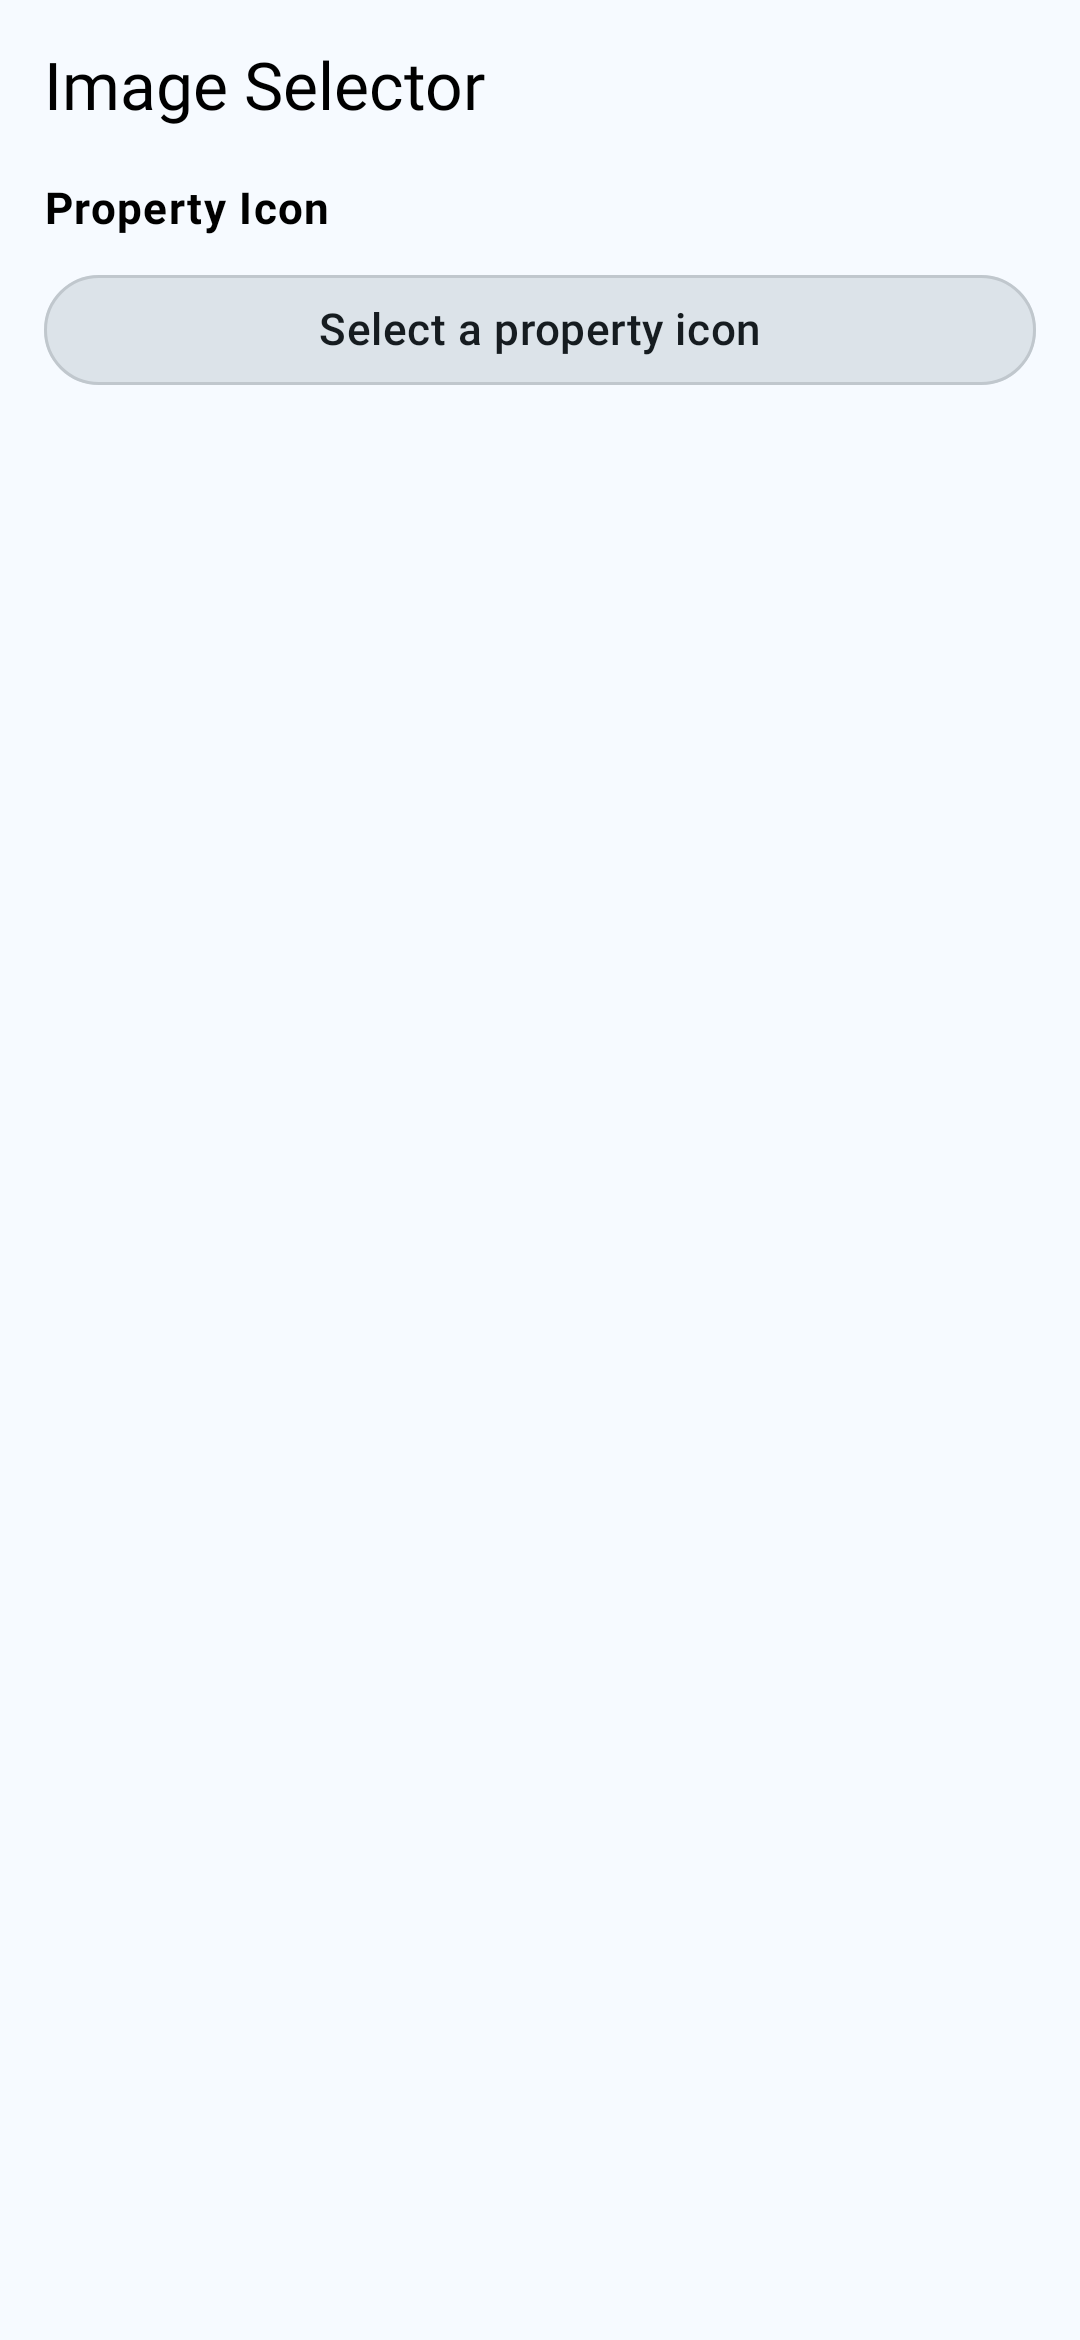
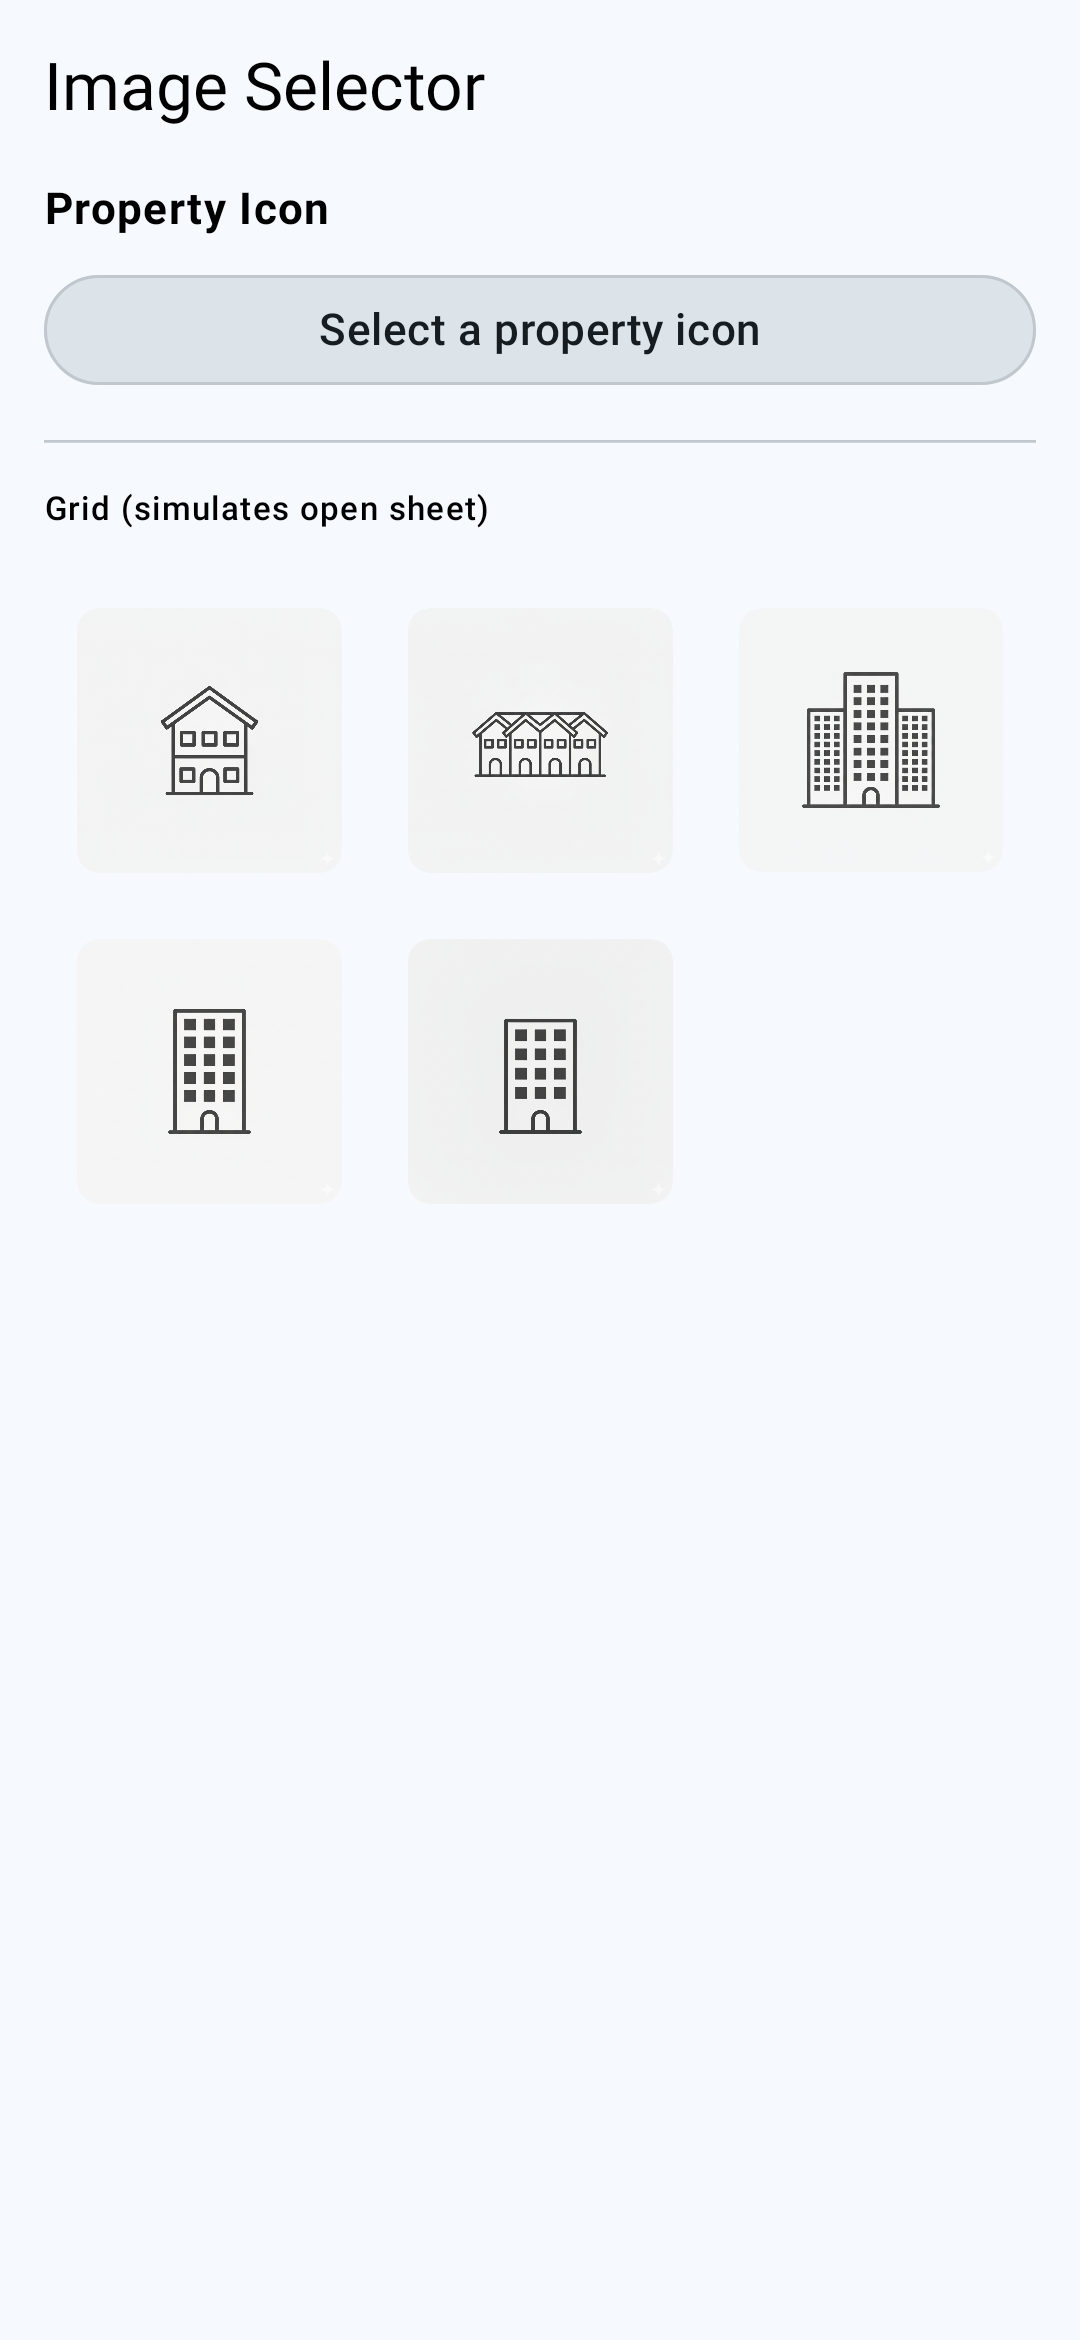
[EDIFIKANA] #354 fixed bottom sheet preview. (#374)
* [EDIFIKANA] #354 fixed bottom sheet preview.

* [EDIFIKANA] Adding screenshots

---------

diff --git a/edifikana/front-end/shared-ui/src/commonMain/kotlin/com/cramsan/edifikana/client/ui/components/ComponentsPreview.kt b/edifikana/front-end/shared-ui/src/commonMain/kotlin/com/cramsan/edifikana/client/ui/components/ComponentsPreview.kt
@@ -5,6 +5,8 @@ import androidx.compose.foundation.layout.Arrangement
 import androidx.compose.foundation.layout.Box
 import androidx.compose.foundation.layout.Column
 import androidx.compose.foundation.layout.fillMaxSize
+import androidx.compose.foundation.layout.fillMaxWidth
+import androidx.compose.foundation.layout.height
 import androidx.compose.foundation.layout.padding
 import androidx.compose.foundation.rememberScrollState
 import androidx.compose.foundation.verticalScroll
@@ -480,6 +482,21 @@ private fun EdifikanaImageSelectorPreview() {
                 onOptionSelected = { selectedOption = it },
                 placeholder = "Select a property icon",
             )
+
+            HorizontalDivider()
+
+            Text("Grid (simulates open sheet)", style = MaterialTheme.typography.labelMedium)
+            Box(
+                modifier = Modifier
+                    .fillMaxWidth()
+                    .height(300.dp),
+            ) {
+                EdifikanaImageGrid(
+                    options = options,
+                    selectedOption = selectedOption,
+                    onOptionSelected = { selectedOption = it },
+                )
+            }
         }
     }
 }
@@ -539,6 +556,21 @@ private fun EdifikanaImageSelectorWithUploadPreview() {
                 onOptionSelected = { selectedOption = it },
                 placeholder = "Select a property icon",
             )
+
+            HorizontalDivider()
+
+            Text("Grid (simulates open sheet)", style = MaterialTheme.typography.labelMedium)
+            Box(
+                modifier = Modifier
+                    .fillMaxWidth()
+                    .height(300.dp),
+            ) {
+                EdifikanaImageGrid(
+                    options = optionsWithUpload,
+                    selectedOption = selectedOption,
+                    onOptionSelected = { selectedOption = it },
+                )
+            }
         }
     }
 }
@@ -589,6 +621,109 @@ private fun EdifikanaImageSelectorWithCustomImagePreview() {
                 onOptionSelected = { selectedOption = it },
                 placeholder = "Select a property icon",
             )
+
+            HorizontalDivider()
+
+            Text("Grid (simulates open sheet)", style = MaterialTheme.typography.labelMedium)
+            Box(
+                modifier = Modifier
+                    .fillMaxWidth()
+                    .height(300.dp),
+            ) {
+                EdifikanaImageGrid(
+                    options = optionsWithUpload,
+                    selectedOption = selectedOption,
+                    onOptionSelected = { selectedOption = it },
+                )
+            }
+        }
+    }
+}
+
+@Preview
+@Composable
+private fun EdifikanaImageSelectorGridOverflowPreview() {
+    AppTheme {
+        var selectedOption by remember { mutableStateOf<ImageOptionUIModel?>(null) }
+
+        val options = (1..12).map { i ->
+            ImageOptionUIModel(
+                id = "OPTION_$i",
+                displayName = "Option $i",
+                imageSource = ImageSource.Drawable(PropertyIcons.CASA),
+            )
+        }
+
+        Column(
+            modifier = Modifier
+                .fillMaxSize()
+                .background(MaterialTheme.colorScheme.background)
+                .padding(16.dp),
+            verticalArrangement = Arrangement.spacedBy(16.dp),
+        ) {
+            Text("Image Selector — Grid Overflow (12 items)", style = MaterialTheme.typography.headlineSmall)
+
+            EdifikanaImageSelector(
+                label = "Property Icon",
+                options = options,
+                selectedOption = selectedOption,
+                onOptionSelected = { selectedOption = it },
+                placeholder = "Select a property icon",
+            )
+
+            HorizontalDivider()
+
+            Text("Grid (simulates open sheet — scrolls at runtime)", style = MaterialTheme.typography.labelMedium)
+            Box(
+                modifier = Modifier
+                    .fillMaxWidth()
+                    .height(300.dp),
+            ) {
+                EdifikanaImageGrid(
+                    options = options,
+                    selectedOption = selectedOption,
+                    onOptionSelected = { selectedOption = it },
+                )
+            }
+        }
+    }
+}
+
+@Preview
+@Composable
+private fun EdifikanaImageSelectorGridEmptyPreview() {
+    AppTheme {
+        Column(
+            modifier = Modifier
+                .fillMaxSize()
+                .background(MaterialTheme.colorScheme.background)
+                .padding(16.dp),
+            verticalArrangement = Arrangement.spacedBy(16.dp),
+        ) {
+            Text("Image Selector — Empty Grid", style = MaterialTheme.typography.headlineSmall)
+
+            EdifikanaImageSelector(
+                label = "Property Icon",
+                options = emptyList(),
+                selectedOption = null,
+                onOptionSelected = {},
+                placeholder = "Select a property icon",
+            )
+
+            HorizontalDivider()
+
+            Text("Grid (simulates open sheet — empty state)", style = MaterialTheme.typography.labelMedium)
+            Box(
+                modifier = Modifier
+                    .fillMaxWidth()
+                    .height(300.dp),
+            ) {
+                EdifikanaImageGrid(
+                    options = emptyList(),
+                    selectedOption = null,
+                    onOptionSelected = {},
+                )
+            }
         }
     }
 }

diff --git a/edifikana/front-end/shared-ui/src/commonMain/kotlin/com/cramsan/edifikana/client/ui/components/EdifikanaBottomSheet.kt b/edifikana/front-end/shared-ui/src/commonMain/kotlin/com/cramsan/edifikana/client/ui/components/EdifikanaBottomSheet.kt
@@ -3,7 +3,6 @@ package com.cramsan.edifikana.client.ui.components
 import androidx.compose.foundation.layout.Box
 import androidx.compose.foundation.layout.BoxWithConstraints
 import androidx.compose.foundation.layout.Column
-import androidx.compose.foundation.layout.ColumnScope
 import androidx.compose.foundation.layout.fillMaxWidth
 import androidx.compose.foundation.layout.heightIn
 import androidx.compose.foundation.layout.widthIn
@@ -36,12 +35,13 @@ fun EdifikanaBottomSheet(
     visible: Boolean,
     onDismissRequest: () -> Unit,
     modifier: Modifier = Modifier,
-    sheetState: SheetState = rememberModalBottomSheetState(),
-    content: @Composable ColumnScope.() -> Unit,
+    sheetState: SheetState = rememberModalBottomSheetState(skipPartiallyExpanded = true),
+    content: @Composable () -> Unit,
 ) {
     if (visible) {
         BoxWithConstraints {
             val isMobile = maxWidth < 600.dp
+            val screenMaxHeight = maxHeight
 
             ModalBottomSheet(
                 onDismissRequest = onDismissRequest,
@@ -57,7 +57,9 @@ fun EdifikanaBottomSheet(
                 ) {
                     Column(
                         modifier = if (isMobile) {
-                            Modifier.fillMaxWidth()
+                            Modifier
+                                .fillMaxWidth()
+                                .heightIn(max = screenMaxHeight)
                         } else {
                             Modifier
                                 .widthIn(max = Size.COLUMN_MAX_WIDTH)
